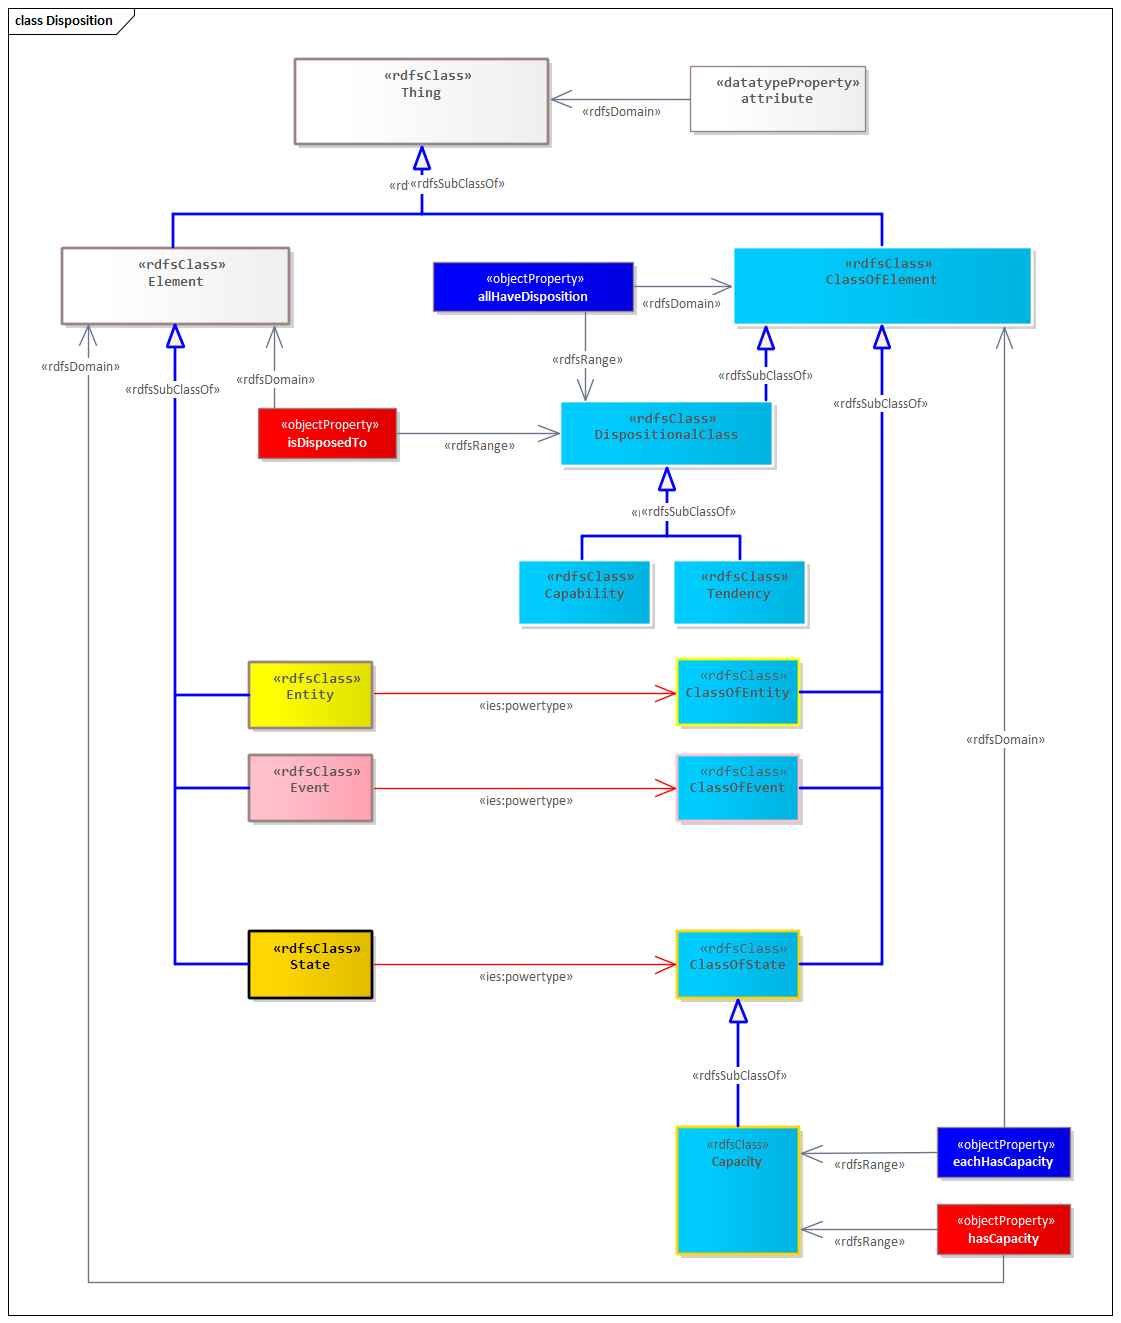
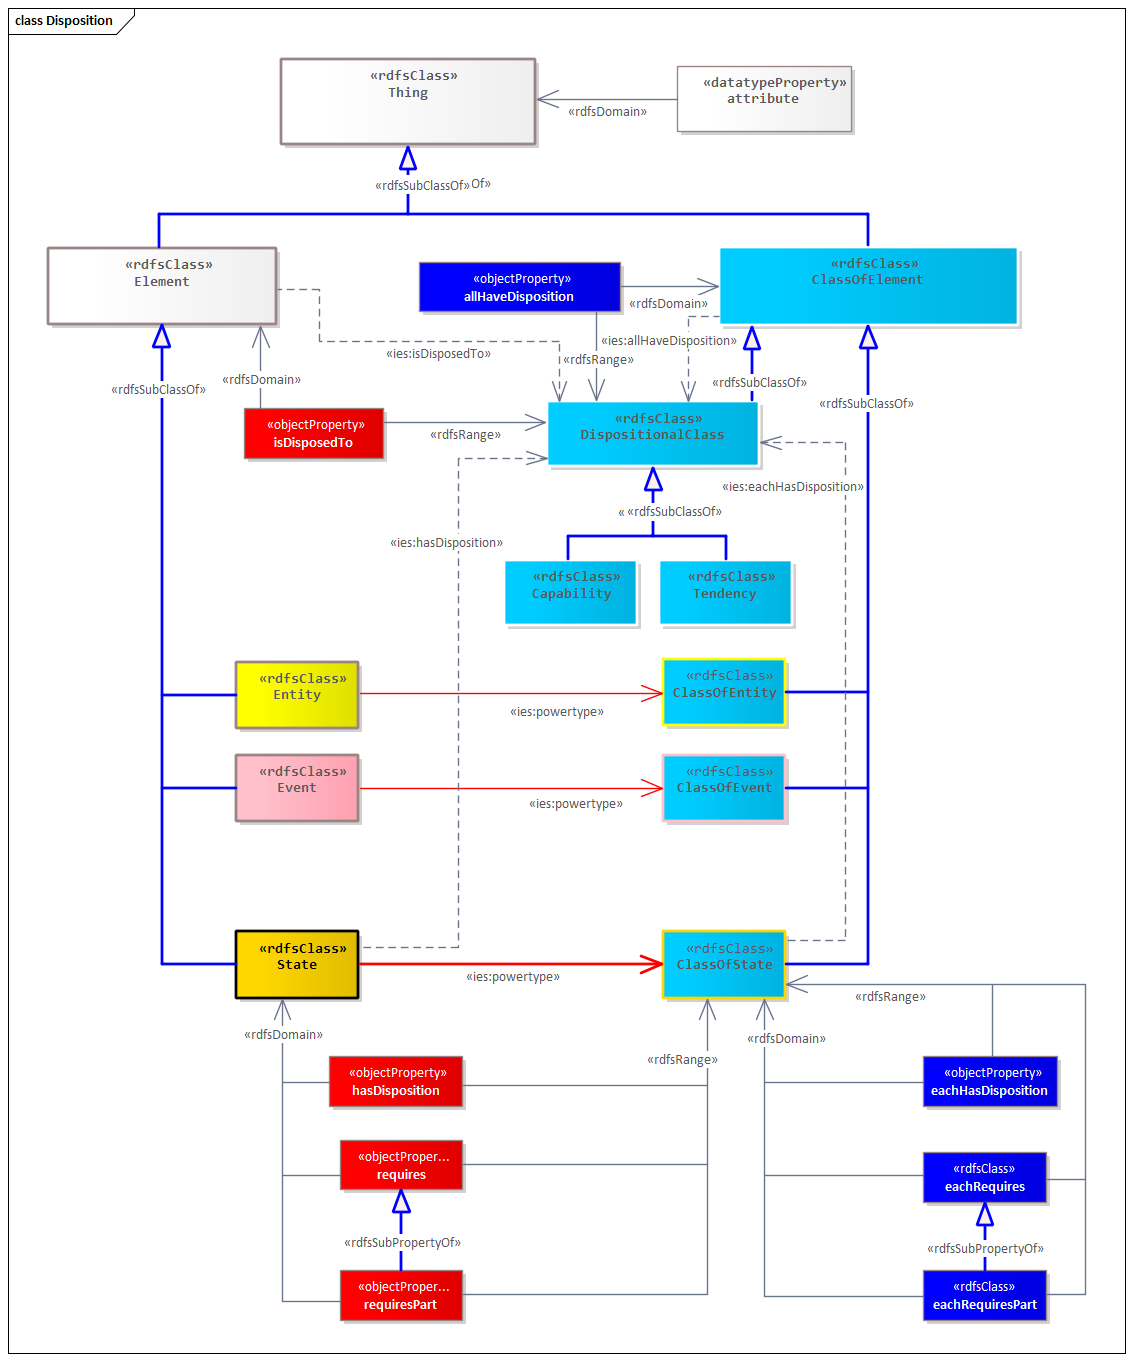
doc(docs): update disposition definitions

Changed region(s): [[0.0, 0.031, 0.9991, 1.0], [0.0, 0.0, 0.1249, 0.031], [0.8742, 0.5268, 0.9054, 0.5888]]

diff --git a/docs/common/user-guides/index.md b/docs/common/user-guides/index.md
@@ -1,6 +1,6 @@
 # User Guides
 
-Welcome to the IES Common User Guides. This section provides comprehensive guidance for understanding, implementing, and extending the Information Exchange Standard (IES).
+Welcome to the IES Common User Guides. This section provides guidance for understanding, implementing, and extending the Information Exchange Standard (IES).
 
 ---
 
@@ -33,6 +33,7 @@ Put your knowledge into practice:
 
 - **[Instantiation Patterns](instantiation-patterns.md)** - Learn standard patterns for creating IES data
 - **[Extending IES](extending-ies.md)** - Discover how to extend IES for your specific needs
+- **[Disposition](disposition.md)** - Model what Elements can do (potential vs. actuality)
 
 ### 4. Network Concepts
 Learn how to model interconnected systems:
@@ -128,6 +129,17 @@ Guidance on how to extend IES for domain-specific or organisation-specific needs
 
 ---
 
+### [Disposition](disposition.md)
+Guide to modelling what Elements can do using the Disposition pattern, which expresses potential capabilities that may or may not be actualised.
+
+**Topics covered:**
+
+- The hasDisposition and eachHasDisposition relationships
+- Relationship to existing patterns (DispositionalClass, Capability)
+- Distinguishing potential from actuality
+
+---
+
 ### Network Concepts
 
 The network documentation provides guidance on modelling interconnected systems such as road networks, utility networks, and other infrastructure.
@@ -196,58 +208,6 @@ Discussion of the relationship between the existing `inLocation` relationship an
 
 ---
 
-## Audience-Specific Pathways
-
-### For Implementers
-Building systems that consume or produce IES data:
-
-1. [Introduction to IES](introduction.md)
-2. [4D Ontology Approach](4d-ontology.md) - focus on practical implications
-3. [Instantiation Patterns](instantiation-patterns.md)
-4. [Network Concepts](networks/network.md) - if working with network data
-5. Review [Examples](../examples/index.md)
-
-### For Information Architects
-Designing information exchanges or mapping schemas:
-
-1. [What is an Ontology?](what-is-an-ontology.md)
-2. [Introduction to IES](introduction.md)
-3. [4D Ontology Approach](4d-ontology.md)
-4. [BORO Methodology](boro-methodology.md)
-5. [Network Concepts](networks/network.md) - for infrastructure domains
-6. [Extending IES](extending-ies.md)
-
-### For Data Modellers
-Mapping existing schemas to/from IES:
-
-1. [Introduction to IES](introduction.md)
-2. [What is an Ontology?](what-is-an-ontology.md)
-3. [Instantiation Patterns](instantiation-patterns.md)
-4. [Connection](networks/connection.md) - for relationship mapping
-5. [Extending IES](extending-ies.md)
-
-### For Ontology Engineers
-Working on IES itself or advanced extensions:
-
-1. [BORO Methodology](boro-methodology.md)
-2. [4D Ontology Approach](4d-ontology.md)
-3. [Network Concepts](networks/network.md) - understanding the network extension
-4. [Location and Containment](networks/location-and-containment.md) - semantic distinctions
-5. [Extending IES](extending-ies.md)
-6. Review [Specification](../specification/index.md)
-
-### For Infrastructure Domain Specialists
-Working with road, rail, utility, or other network-based domains:
-
-1. [Introduction to IES](introduction.md)
-2. [4D Ontology Approach](4d-ontology.md)
-3. [Network Concepts](networks/network.md)
-4. [Connection](networks/connection.md)
-5. [Flow](networks/flow.md)
-6. [Containment](networks/containment.md)
-
----
-
 ## Additional Resources
 
 ### Related Documentation
@@ -303,7 +263,7 @@ Please [open an issue](https://github.com/IES-Org/ies-common/issues) on our GitH
 ## Version Information
 
 **Documentation Version:** 5.1.0  
-**Last Updated:** 06 January 2026  
+**Last Updated:** 07 January 2026  
 **Applies to:** IES Common 5.x releases
 
 ---

diff --git a/docs/common/specification/ies.md b/docs/common/specification/ies.md
@@ -9,7 +9,7 @@ description: Comprehensive visual documentation of IES concepts, relationships, 
 
 # The Information Exchange Standard (IES) Model Specification
 
-![IES Logo](../assets/images/logos/IES-logo-dark.png)
+![IES Logo](../../assets/images/logos/IES-logo-dark.png)
 
 ## Abstract
 
@@ -595,9 +595,11 @@ Dispositions are managed in IES using `DispositionalClass` - something that was 
 * [ClassOfEvent](#4ea194c6-bbf9-45ab-85de-5802d8c3a531)
 * [ClassOfState](#0358ddab-d22c-4ee5-8f9a-cf18f3e432bd)
 * [Capability](#91d62f08-ed05-4558-9321-368712a34a30)
-* [isDisposedTo](#b093f8da-ae08-4819-8e1c-f119ef212566)
 * [Tendency](#2b451601-ec1d-4bd4-a782-6e0b7e0d416d)
+* [isDisposedTo](#b093f8da-ae08-4819-8e1c-f119ef212566)
 * [allHaveDisposition](#6f8504e0-e03c-43fa-aa81-c3341ca551e3)
+* [hasDisposition](#d1c8e5b7-9a0c-4f2b-9e3c-1a0e5c8d6f1a)
+* [eachHasDisposition](#d9e5c8b7-1a0c-4f2b-9e3c-1a0e5c8d6f1a)
 
 ---
 
@@ -3430,6 +3432,9 @@ An <a href="#BDF4EBD9-7F41-4d90-91A7-571177330C1B"><font color="#0000ff"><u>Iden
 ### <a id="7852a5e5-8684-49f2-82ae-3368032163b1"></a>Duration
 The Measure of an Element's temporal extent
 
+### <a id="862e873d-b64a-41ad-9d3d-27f108fa159f"></a>eachHasDisposition
+A relationship that asserts all members of a <a href="#0358DDAB-D22C-4ee5-8F9A-CF18F3E432BD"><font color="#0000ff"><u>ClassOfState</u></font></a> can have (be members of) another <a href="#0358DDAB-D22C-4ee5-8F9A-CF18F3E432BD"><font color="#0000ff"><u>ClassOfState</u></font></a>.
+
 ### <a id="a4502460-54b7-446b-a9aa-003b49f9682b"></a>Easting
 The GeoIdentity that is a representation of the eastward componrnent of cartesian point on a map - i.e. on a 2D projection of the globe such as a mercator projection.
 
@@ -3698,6 +3703,9 @@ An <a href="#BBC06281-340F-458f-A057-82193F32C9DD"><font color="#0000ff"><u>rdf:
 
 ### <a id="e7500475-8c4f-47a3-8aab-c5679621fae8"></a>hasCountryOfIssue
 The country in which the respective <a href="#BDF4EBD9-7F41-4d90-91A7-571177330C1B"><font color="#0000ff"><u>IdentityDocument</u></font></a> or <a href="#9882D901-1B22-4b89-81D1-031F840A20D0"><font color="#0000ff"><u>PaymentArtefact</u></font></a> was issued.
+
+### <a id="862e873d-b64a-41ad-9d3d-27f108fa159f"></a>hasDisposition
+A relationship that asserts a <a href="47301D66-CBD5-4d10-9481-B66966A3F3A2"><font color="#0000ff"><u>State</u></font></a> can have (be a member of) a particular <a href="#0358DDAB-D22C-4ee5-8F9A-CF18F3E432BD"><font color="#0000ff"><u>ClassOfState</u></font></a>.
 
 ### <a id="0aaf6757-aac9-43c4-8b43-cb3358eadca4"></a>hasEmergencyContactAddress
 The address of an emergency contact as printed on the <a href="#BDF4EBD9-7F41-4d90-91A7-571177330C1B"><font color="#0000ff"><u>IdentityDocument</u></font></a>
